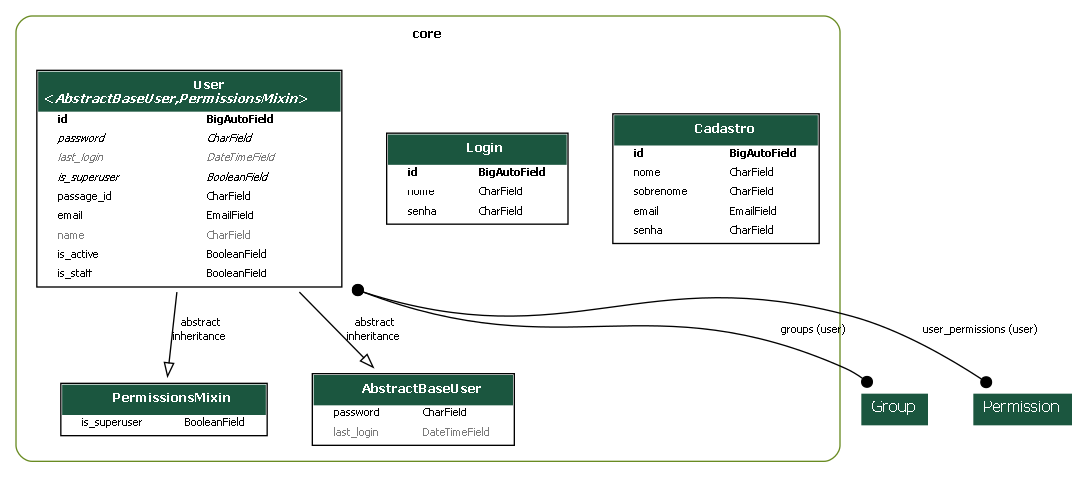
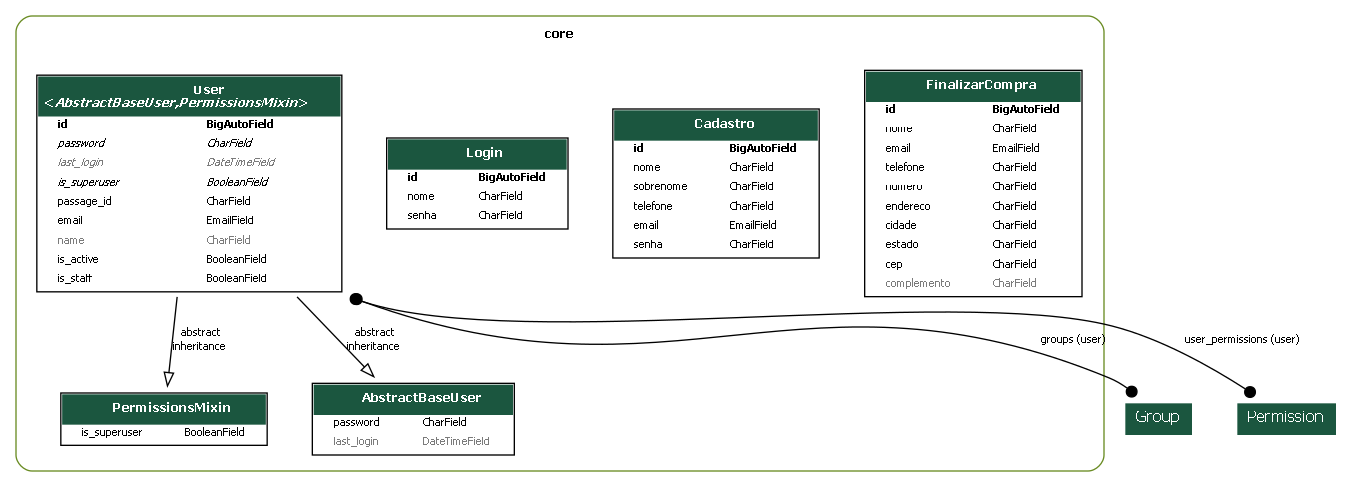
feat: criação da model para FinalizarCompra

Changed region(s): [[0.0, 0.0294, 1.0, 0.9686], [0.75, 0.9392, 0.8125, 0.9686]]

diff --git a/core/migrations/0006_finalizarcompra_cadastro_telefone.py b/core/migrations/0006_finalizarcompra_cadastro_telefone.py
@@ -1,0 +1,33 @@
+# Generated by Django 5.1.7 on 2025-06-13 15:32
+
+from django.db import migrations, models
+
+
+class Migration(migrations.Migration):
+
+    dependencies = [
+        ('core', '0005_cadastro_login'),
+    ]
+
+    operations = [
+        migrations.CreateModel(
+            name='FinalizarCompra',
+            fields=[
+                ('id', models.BigAutoField(auto_created=True, primary_key=True, serialize=False, verbose_name='ID')),
+                ('nome', models.CharField(max_length=150)),
+                ('email', models.EmailField(max_length=254)),
+                ('telefone', models.CharField(max_length=15)),
+                ('numero', models.CharField(max_length=10)),
+                ('endereco', models.CharField(max_length=255)),
+                ('cidade', models.CharField(max_length=100)),
+                ('estado', models.CharField(max_length=50)),
+                ('cep', models.CharField(max_length=10)),
+                ('complemento', models.CharField(blank=True, max_length=100, null=True)),
+            ],
+        ),
+        migrations.AddField(
+            model_name='cadastro',
+            name='telefone',
+            field=models.CharField(default='000000000', max_length=20),
+        ),
+    ]

diff --git a/app/urls.py b/app/urls.py
@@ -3,14 +3,14 @@ from django.urls import include, path
 from drf_spectacular.views import SpectacularAPIView, SpectacularRedocView, SpectacularSwaggerView
 from rest_framework.routers import DefaultRouter
 
-from core.views import CadastroViewSet, LoginViewSet, UserViewSet
+from core.views import CadastroViewSet, LoginViewSet, UserViewSet, FinalizarCompraViewSet
 
 router = DefaultRouter()
 
 router.register(r'usuarios', UserViewSet, basename='usuarios')
 router.register(r'login', LoginViewSet, basename='login')
 router.register(r'cadastro', CadastroViewSet, basename='cadastro')
-
+router.register(r'finalizarCompra', FinalizarCompraViewSet, basename='finalizarCompra')
 
 urlpatterns = [
     path('admin/', admin.site.urls),

diff --git a/core/models/finalizarCompra.py b/core/models/finalizarCompra.py
@@ -1,0 +1,17 @@
+
+from django.db import models
+
+
+class FinalizarCompra(models.Model):
+    nome = models.CharField(max_length=150)
+    email = models.EmailField(max_length=254)
+    telefone = models.CharField(max_length=15)
+    numero = models.CharField(max_length=10)
+    endereco = models.CharField(max_length=255)
+    cidade = models.CharField(max_length=100)
+    estado = models.CharField(max_length=50)
+    cep = models.CharField(max_length=10)
+    complemento = models.CharField(max_length=100, blank=True, null=True)
+
+    def __str__(self):
+        return f'{self.nome} - {self.cep}'

diff --git a/core/serializers/finalizarCompra.py b/core/serializers/finalizarCompra.py
@@ -1,0 +1,11 @@
+from rest_framework.serializers import ModelSerializer
+from core.models import FinalizarCompra
+
+
+class FinalizarCompraSerializer(ModelSerializer):
+    class Meta:
+        model = FinalizarCompra
+        fields = [
+            'id', 'nome', 'email', 'telefone', 'numero',
+            'endereco', 'cidade', 'estado', 'cep', 'complemento'
+        ]

diff --git a/core/views/finalizarCompra.py b/core/views/finalizarCompra.py
@@ -1,0 +1,9 @@
+from rest_framework.viewsets import ModelViewSet
+
+from core.models import FinalizarCompra
+from core.serializers import FinalizarCompraSerializer
+
+
+class FinalizarCompraViewSet(ModelViewSet):
+    queryset = FinalizarCompra.objects.all()
+    serializer_class = FinalizarCompraSerializer

diff --git a/core/serializers/__init__.py b/core/serializers/__init__.py
@@ -1,4 +1,5 @@
 from .user import UserSerializer
 from .login import LoginSerializer
 from .cadastro import CadastroSerializer
+from .finalizarCompra import FinalizarCompraSerializer
 

diff --git a/core/views/__init__.py b/core/views/__init__.py
@@ -1,3 +1,4 @@
 from .user import UserViewSet
 from .login import LoginViewSet
 from .cadastro import CadastroViewSet
+from .finalizarCompra import FinalizarCompraViewSet

diff --git a/core/models/__init__.py b/core/models/__init__.py
@@ -1,3 +1,4 @@
 from .user import User
 from .login import Login
 from .cadastro import Cadastro
+from .finalizarCompra import FinalizarCompra
